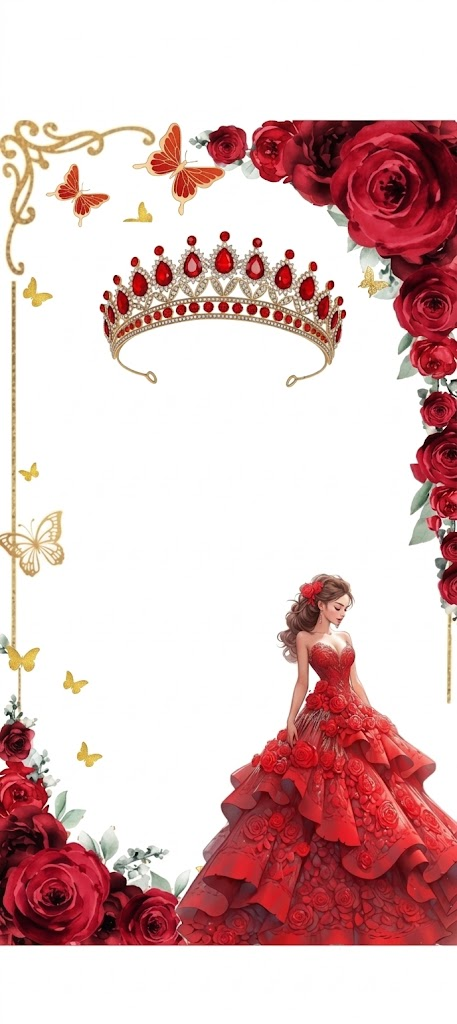
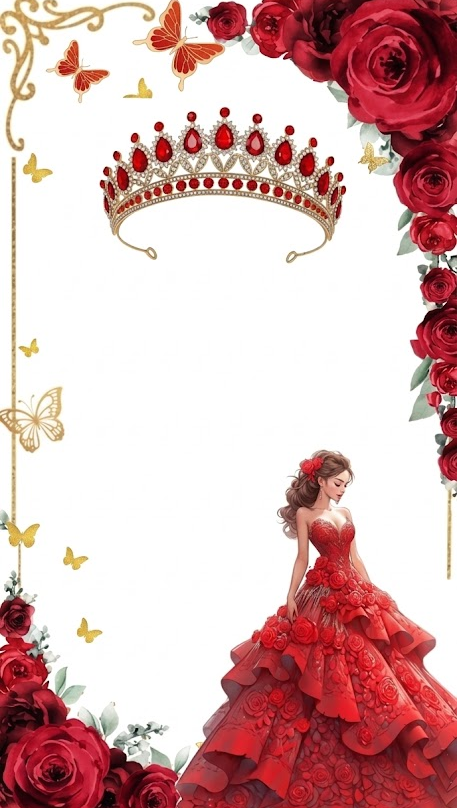
Modificacion de fondo

diff --git a/src/styles/hero.css b/src/styles/hero.css
@@ -1,18 +1,39 @@
+
+* {
+  margin: 0;
+  padding: 0;
+  box-sizing: border-box;
+}
+
+body, html {
+  width: 100%;
+  height: 100%;
+  overflow-x: hidden;
+  background-color: white; /* O el color que prefieras */
+}
+
 .hero-section {
   width: 100%;
+  height: 100vh; /* Ocupa toda la pantalla del cel */
   display: flex;
   justify-content: center;
-  background-color: #f0f0f0;
+  background-color: #ffffff;
+  margin: 0;
+  padding: 0;
+  overflow: hidden; /* Evita scrolls raros */
 }
 
 .hero-wrapper {
   position: relative;
   width: 100%;
-  max-width: 500px; /* Tamaño máximo para que no se deforme en laptop */
+  height: 100%; /* Forzamos a que llene el alto */
+  max-width: 450px;
 }
 
 .hero-img {
   width: 100%;
+  height: 100%;
+  object-fit: fill; /* Esto estira la imagen para que no queden bordes blancos */
   display: block;
 }
 
@@ -25,55 +46,68 @@
   display: flex;
   flex-direction: column;
   align-items: center;
-  padding-top: 38%; /* Esto empuja el texto justo debajo de la corona */
+  /* --- CONTROL DE POSICIÓN --- */
+  /* Ajusta este valor para bajar o subir TODO el bloque (Nombre, Fecha, Contador) */
+  padding-top: 55%; 
 }
 
 .hero-tag {
-  color: #a34b4b;
+  color: #893446;
   font-family: serif;
-  letter-spacing: 3px;
-  font-size: 1.1rem;
-  margin-bottom: 10px;
+  letter-spacing: 4px;
+  font-size: 0.9rem;
+  margin-bottom: 5px;
 }
 
 .hero-names {
-  font-family: 'Great Vibes', cursive; /* Asegúrate de importar esta fuente en tu index.html */
-  color: #a34b4b;
-  font-size: 2.8rem;
-  margin: 0;
+  font-family: 'Great Vibes', cursive;
+  color: #893446;
+  font-size: clamp(2.5rem, 10vw, 3.2rem);
+  margin: 0; /* Quitamos márgenes para que la fecha pegue más */
+  text-align: center;
+  line-height: 1;
 }
 
 .hero-date {
-  color: #a34b4b;
+  color: #893446;
+  font-family: serif;
   font-size: 1.2rem;
-  margin-top: 5px;
+  margin: 10px 0 20px 0; /* Ajusta el 20px para separar el contador de la fecha */
 }
 
-/* El contador transparente que viste en la imagen */
+/* El Contador Estilo Cristal */
 .hero-counter {
-  position: absolute;
-  bottom: 25%; /* Ajusta esto para que quede sobre la falda o donde prefieras */
   display: flex;
-  gap: 15px;
-  background: rgba(255, 255, 255, 0.2);
-  padding: 10px 20px;
-  border-radius: 10px;
-  backdrop-filter: blur(5px);
+  gap: 10px;
+  background: rgba(255, 255, 255, 0.5);
+  padding: 10px 15px;
+  border-radius: 12px;
+  backdrop-filter: blur(4px);
+  border: 1px solid rgba(255, 255, 255, 0.3);
+  /* Quitamos position absolute para que aparezca justo debajo de la fecha */
 }
 
 .counter-item {
   display: flex;
   flex-direction: column;
   align-items: center;
-  color: #a34b4b;
+  min-width: 40px;
 }
 
 .counter-item span {
+  color: #893446;
   font-weight: bold;
-  font-size: 1.2rem;
+  font-size: 1.1rem;
 }
 
 .counter-item small {
-  font-size: 0.7rem;
+  color: #893446;
+  font-size: 0.6rem;
   text-transform: uppercase;
+}
+
+/* Responsividad para pantallas muy pequeñas */
+@media (max-width: 370px) {
+  .hero-names { font-size: 2.2rem; }
+  .hero-counter { gap: 8px; padding: 8px 12px; }
 }

diff --git a/src/components/Hero.jsx b/src/components/Hero.jsx
@@ -10,19 +10,19 @@ export default function Hero() {
     <section className="hero-section">
       <div className="hero-wrapper">
         <img src={hero} alt="Invitación" className="hero-img" />
-        
         <div className="hero-overlay">
           <p className="hero-tag">MIS XV AÑOS</p>
-          <h3 className="hero-names">Stephany Guadalupe</h3>
-          <p className="hero-date">30 De Mayo Del 2026</p>
+          <h3 className="hero-names">Stephany <br/> Guadalupe</h3>
+          <p className="hero-date">30 • Mayo • 2026</p>
 
           <div className="hero-counter">
             <div className="counter-item"><span>{d}</span><small>Días</small></div>
-            <div className="counter-item"><span>{h}</span><small>Horas</small></div>
-            <div className="counter-item"><span>{m}</span><small>Minutos</small></div>
+            <div className="counter-item"><span>{h}</span><small>Hrs</small></div>
+            <div className="counter-item"><span>{m}</span><small>Min</small></div>
             <div className="counter-item"><span>{s}</span><small>Seg</small></div>
           </div>
         </div>
+        
       </div>
     </section>
   );
